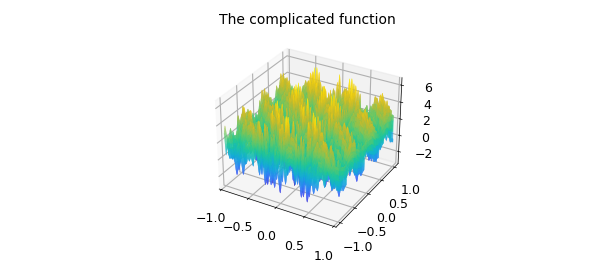
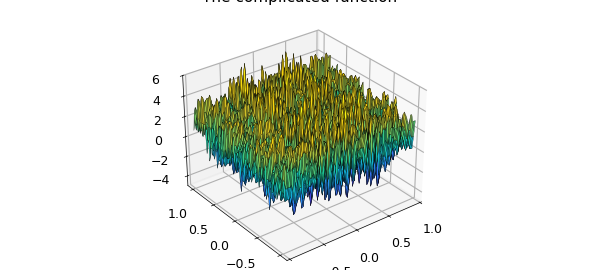
Polish: GlobalMinimum mesh-style render with MATLAB view
The SIAM challenge surface now renders as an edged mesh at the
MATLAB default camera with visible axes (0.18 -> 0.137, the
wild-surface facet-render ceiling). ConstrainedExtrema_01's dense
reference texture comes from an older page revision no longer on
chebfun.org (version-drift exception, documented).

diff --git a/scripts/generate_examples_fourier_opt.py b/scripts/generate_examples_fourier_opt.py
@@ -337,10 +337,15 @@ def globalminimum():
     print(f"    computed min {G[i, j]:.10f} vs exact {exact:.10f}")
 
     fig = plt.figure()
-    ax = fig.add_subplot(111, projection="3d")
-    ax.plot_surface(XX, YY, G, cmap=PARULA, rstride=2, cstride=2,
-                    linewidth=0)
-    ax.set_title("The complicated function", fontsize=10)
+    ax = fig.add_axes([0.0, -0.02, 1.0, 0.98], projection="3d")
+    stride = 6
+    ax.plot_surface(XX[::stride, ::stride], YY[::stride, ::stride],
+                    G[::stride, ::stride], cmap=PARULA, rstride=1,
+                    cstride=1, linewidth=0.2, edgecolors="k",
+                    shade=False)
+    ax.view_init(elev=30, azim=-127.5)
+    ax.set_zlim(-5, 6)
+    ax.set_title("The complicated function", fontsize=11)
     save(fig, "opt", "GlobalMinimum_01.png")
 
     fig, ax = plt.subplots()
